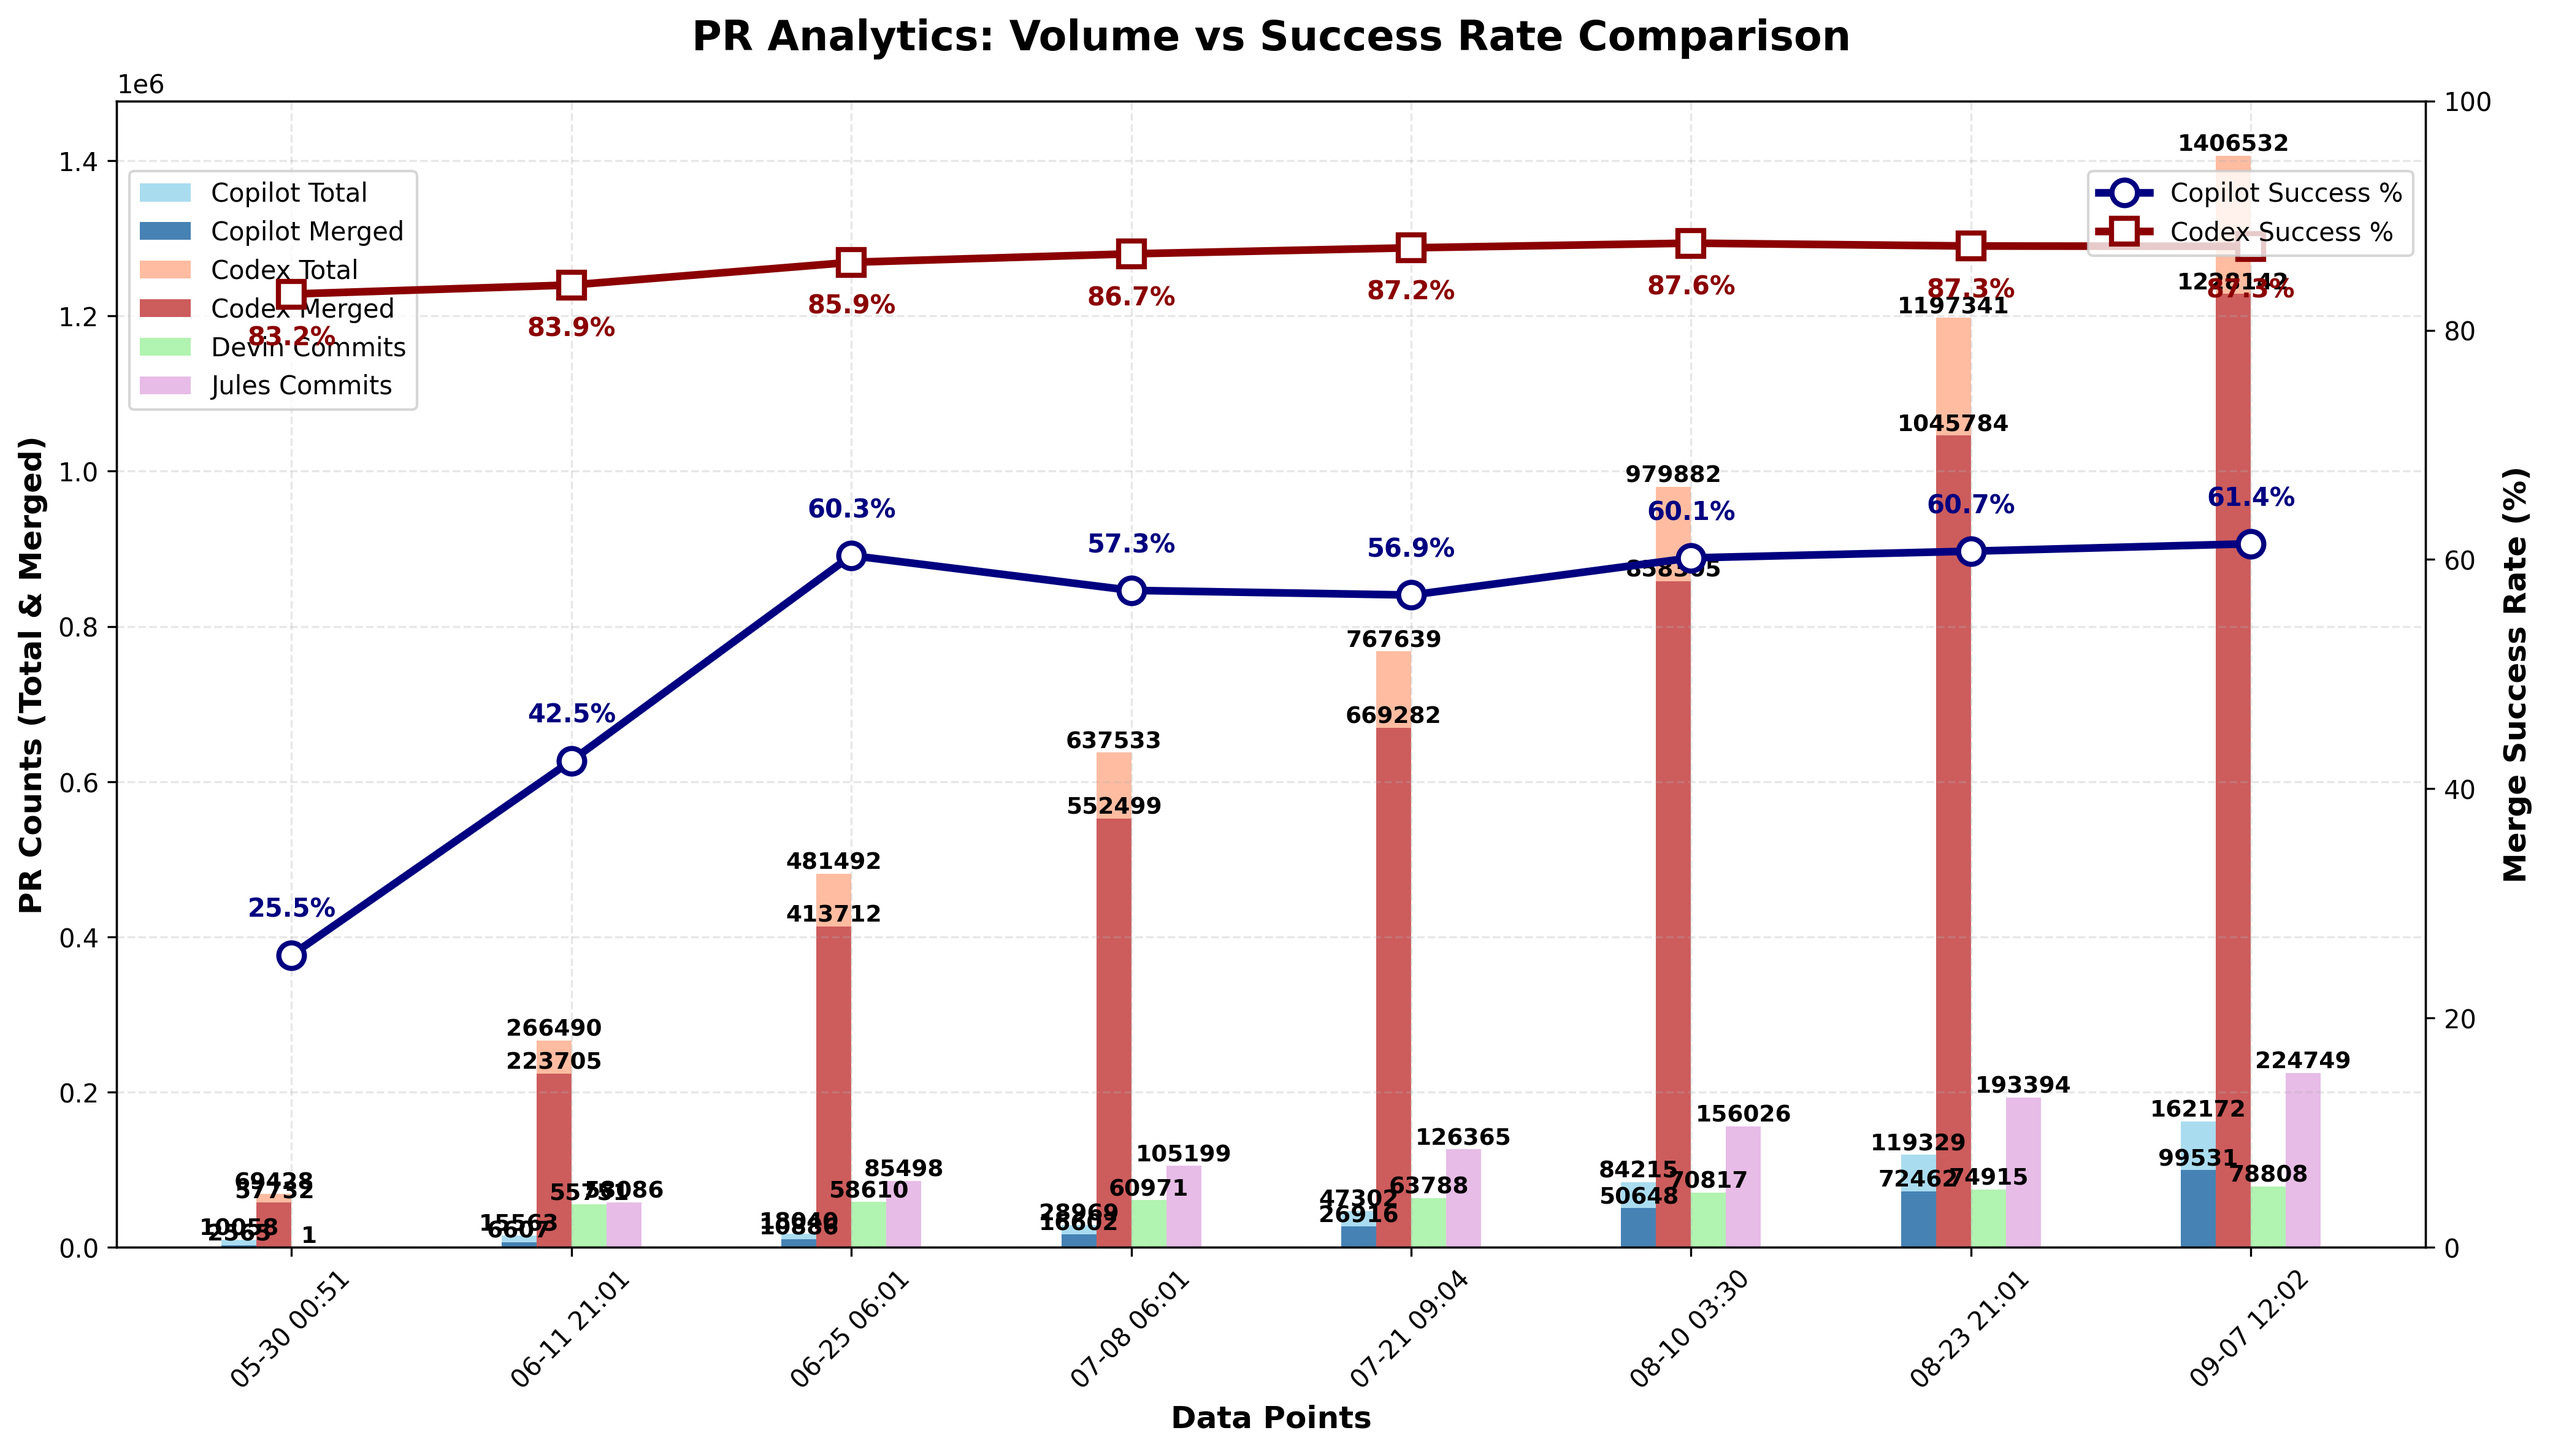
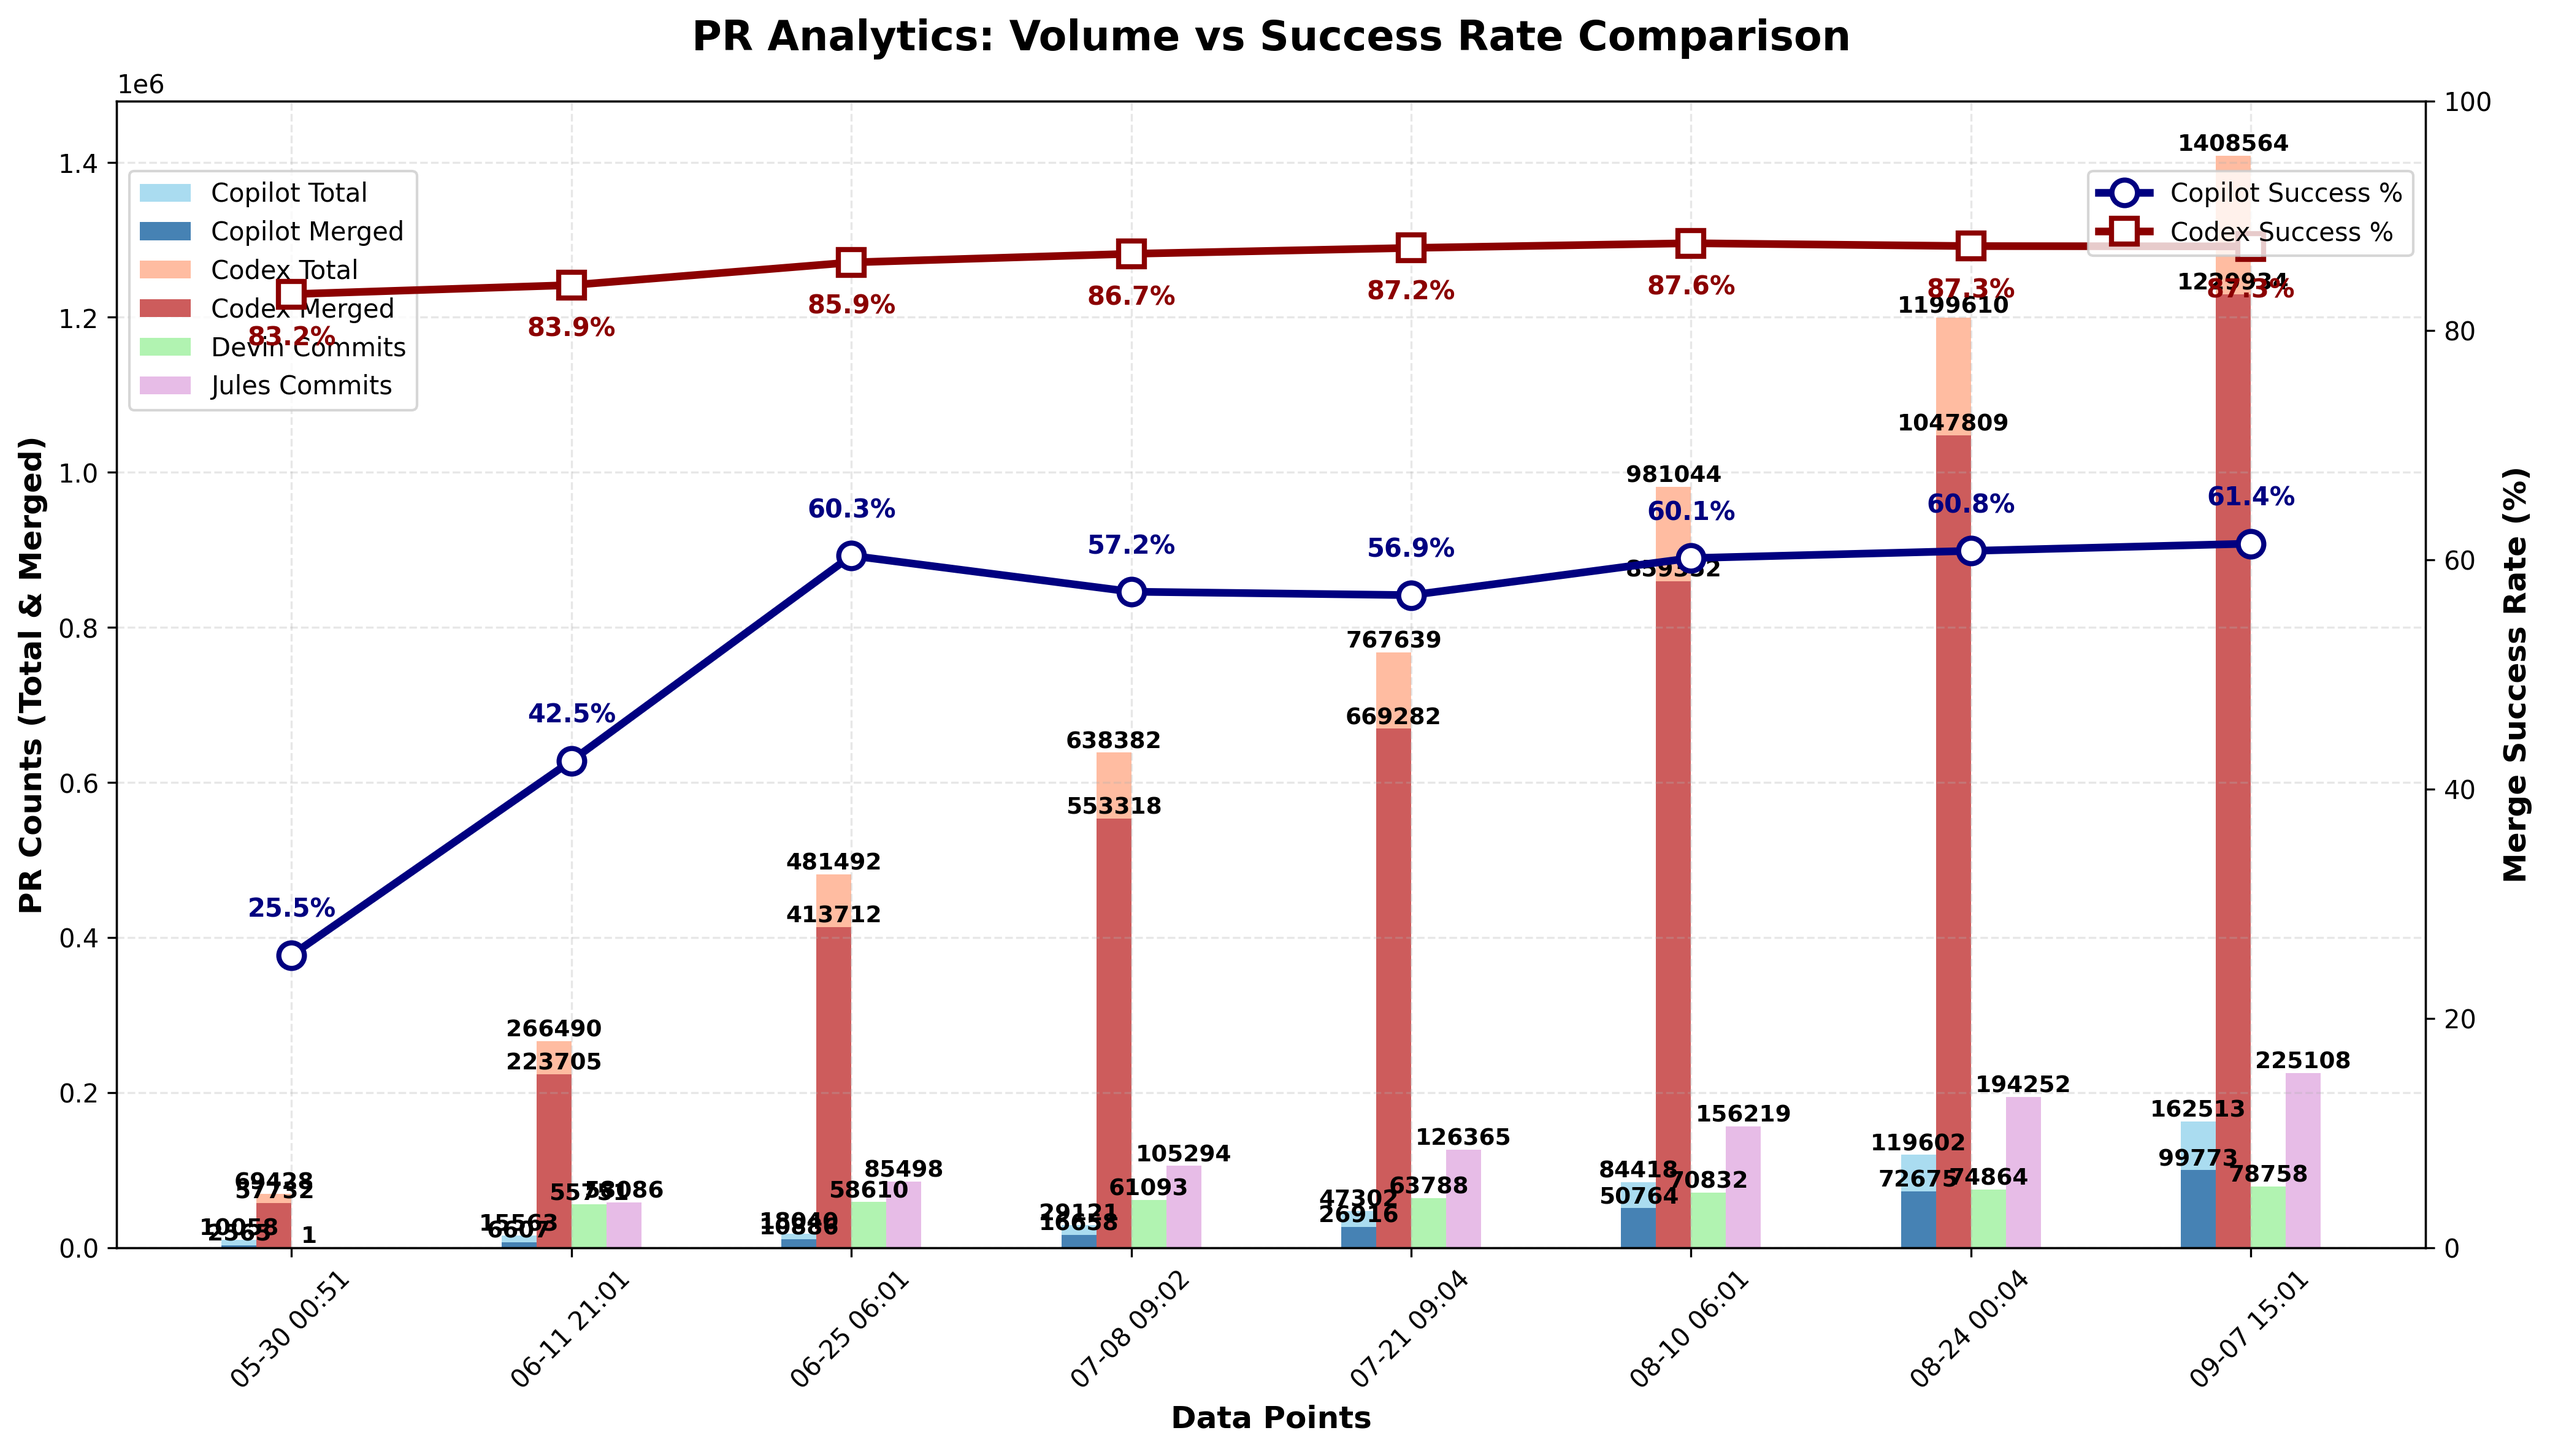
chore: update PR‑approval chart

diff --git a/docs/index.html b/docs/index.html
@@ -780,6 +780,7 @@
                         <td>N/A</td>
                         <td>N/A</td>
                         <td>N/A</td>
+                        <td>N/A</td>
                     </tr>
                     <tr>
                         <td>Codex</td>
@@ -1518,27 +1519,28 @@
                         <td>N/A</td>
                         <td>N/A</td>
                         <td>N/A</td>
+                        <td>N/A</td>
                     </tr>
                 <tr>
                         <td>Devin</td>
                         <td>N/A</td>
                         <td>N/A</td>
                         <td>N/A</td>
-                        <td>78,808</td>
+                        <td>78,758</td>
                     </tr>
                     <tr>
                         <td>Jules</td>
                         <td>N/A</td>
                         <td>N/A</td>
                         <td>N/A</td>
-                        <td>224,749</td>
+                        <td>225,108</td>
                     </tr>
                     </tbody>
             </table>
         </section>
 
         <footer>
-            <p>Last updated: <span id="last-updated">September 07, 2025 12:02 UTC</span></p>
+            <p>Last updated: <span id="last-updated">September 07, 2025 15:01 UTC</span></p>
             <p><a href="https://github.com/aavetis/ai-pr-watcher">View on GitHub</a></p>
         </footer>
     </div>

diff --git a/README.md b/README.md
@@ -19,7 +19,7 @@ Explore the GitHub search queries used:
 
 | Service | Total PRs | Merged PRs | Merge Rate | Total Commits |
 | ------- | --------- | ---------- | ---------- | ------------- |
-| Copilot | 162,172 | 99,531 | 61.37% | N/A           |
-| Codex   | 1,406,532 | 1,228,142 | 87.32% | N/A           |
-| Devin   | N/A       | N/A        | N/A        | 78,808 |
-| Jules   | N/A       | N/A        | N/A        | 224,749 |
+| Copilot | 162,513 | 99,773 | 61.39% | N/A           |
+| Codex   | 1,408,564 | 1,229,934 | 87.32% | N/A           |
+| Devin   | N/A       | N/A        | N/A        | 78,758 |
+| Jules   | N/A       | N/A        | N/A        | 225,108 |
